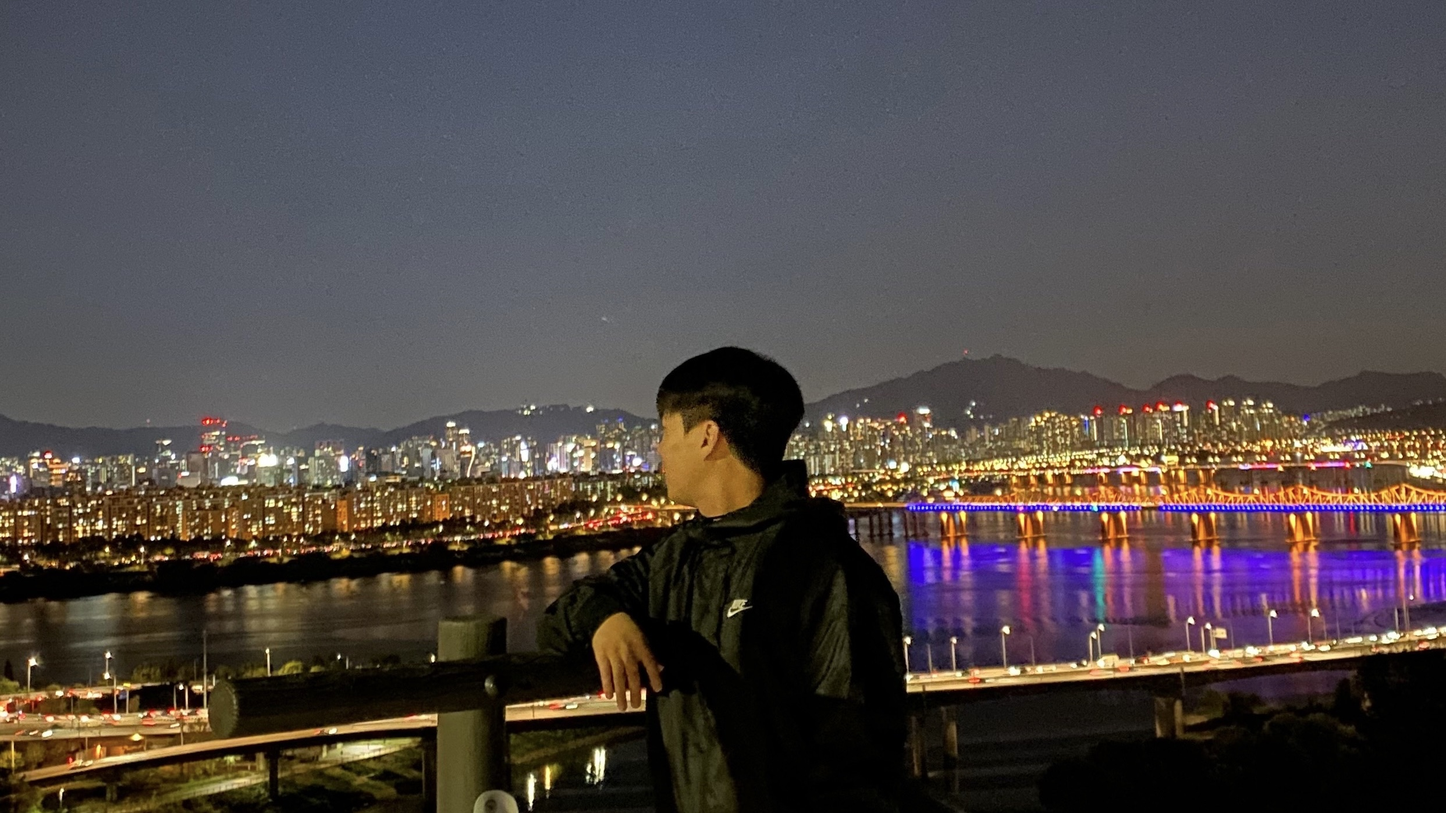
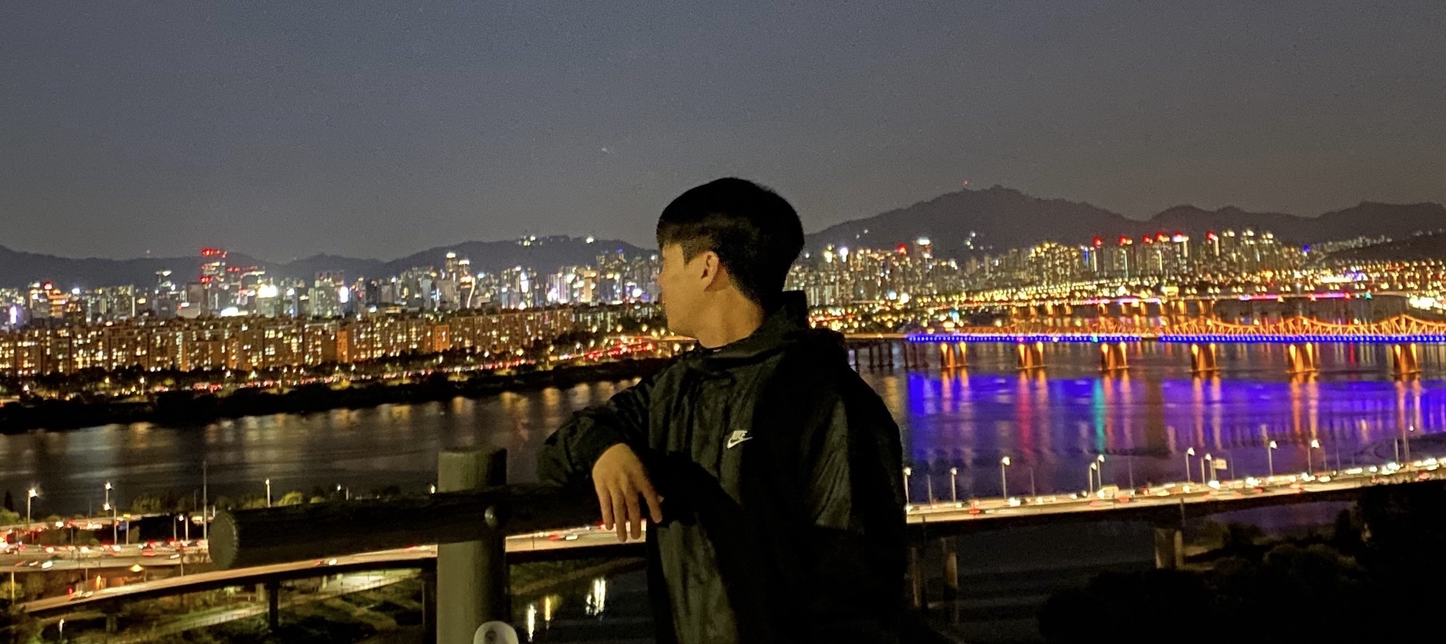
[Design] 이미지, 사진 교체 및 불필요 요소 삭제

diff --git a/components/overlay.js b/components/overlay.js
@@ -1,9 +1,9 @@
 import { motion } from "framer-motion";
 import Image from "next/image";
-import BackImg2 from "../public/assets/etc/background1.jpeg";
-import BackImg1 from "../public/assets/etc/background3.jpeg";
-import Profile from "../public/assets/profile/profile4-1.jpg";
-import { overlayData, skillData } from "../data";
+import BackImg1 from "../public/assets/profile/profile6.jpeg";
+import BackImg2 from "../public/assets/profile/profile2.jpg";
+import Profile from "../public/assets/profile/profile4.jpg";
+import { overlayData } from "../data";
 
 export default function Overlay({ toggleView }) {
   // overlay 버블링 방지 함수
@@ -63,7 +63,7 @@ export default function Overlay({ toggleView }) {
                 </h2>
                 <p className="text-lg lg:text-2xl font-bold">1991. 11. 29.</p>
               </div>
-              <div className="font-jalnan text-lg sm:text-3xl text-center lg:text-right text-gray-400">
+              <div className="font-jalnan text-lg sm:text-2xl text-center lg:text-right text-gray-400">
                 React, NextJS, TypeScript, Vue, JavaScript, ReactQuery, Recoil,
                 Redux
               </div>

diff --git a/components/Pages/about.js b/components/Pages/about.js
@@ -9,7 +9,7 @@ import { useRouter } from "next/router";
 import { useState } from "react";
 import Button from "../Button/button";
 import Image from "next/image";
-import Profile from "../../public/assets/profile/profile.jpeg";
+import Profile from "../../public/assets/profile/profile1.jpeg";
 import Overlay from "../overlay";
 
 export default function About() {
